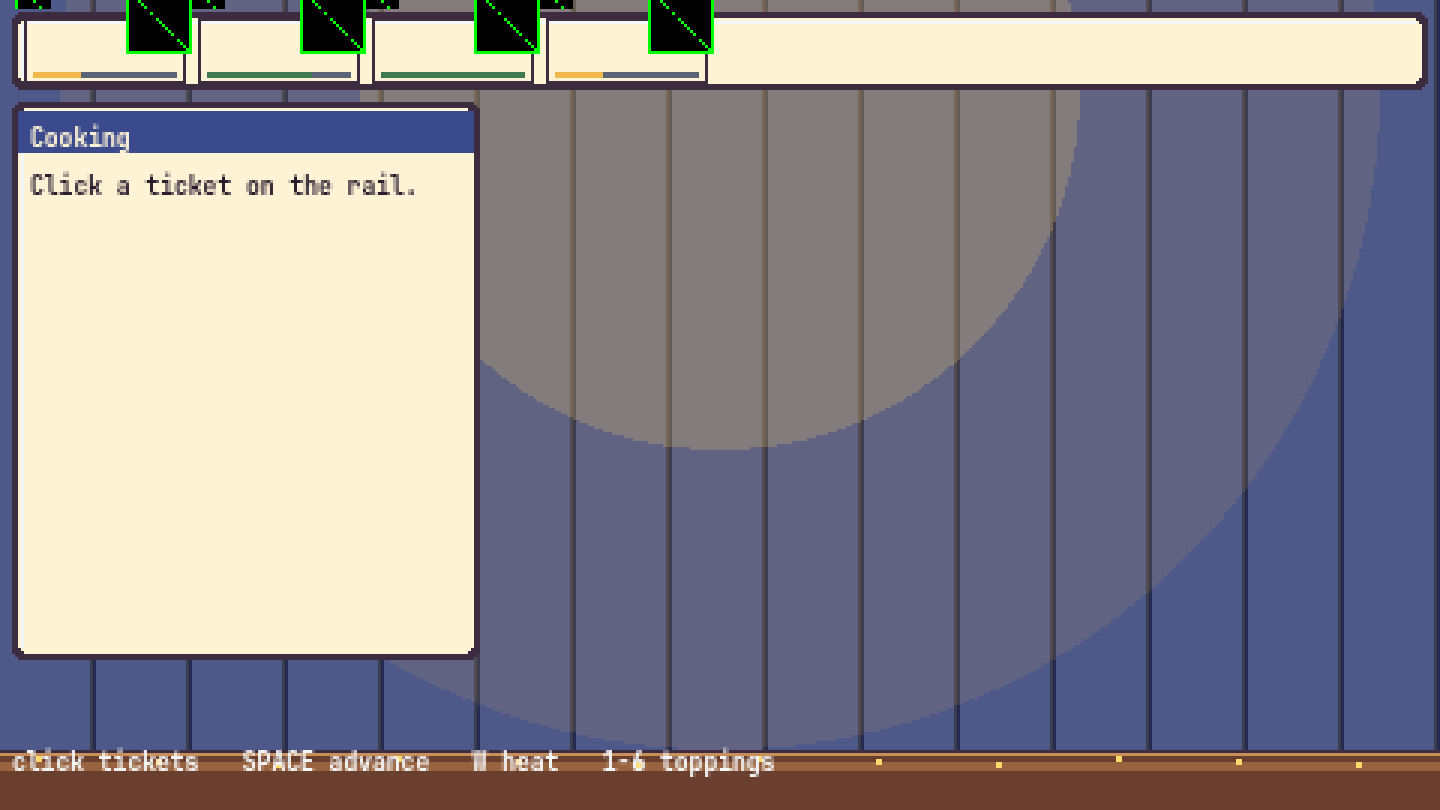
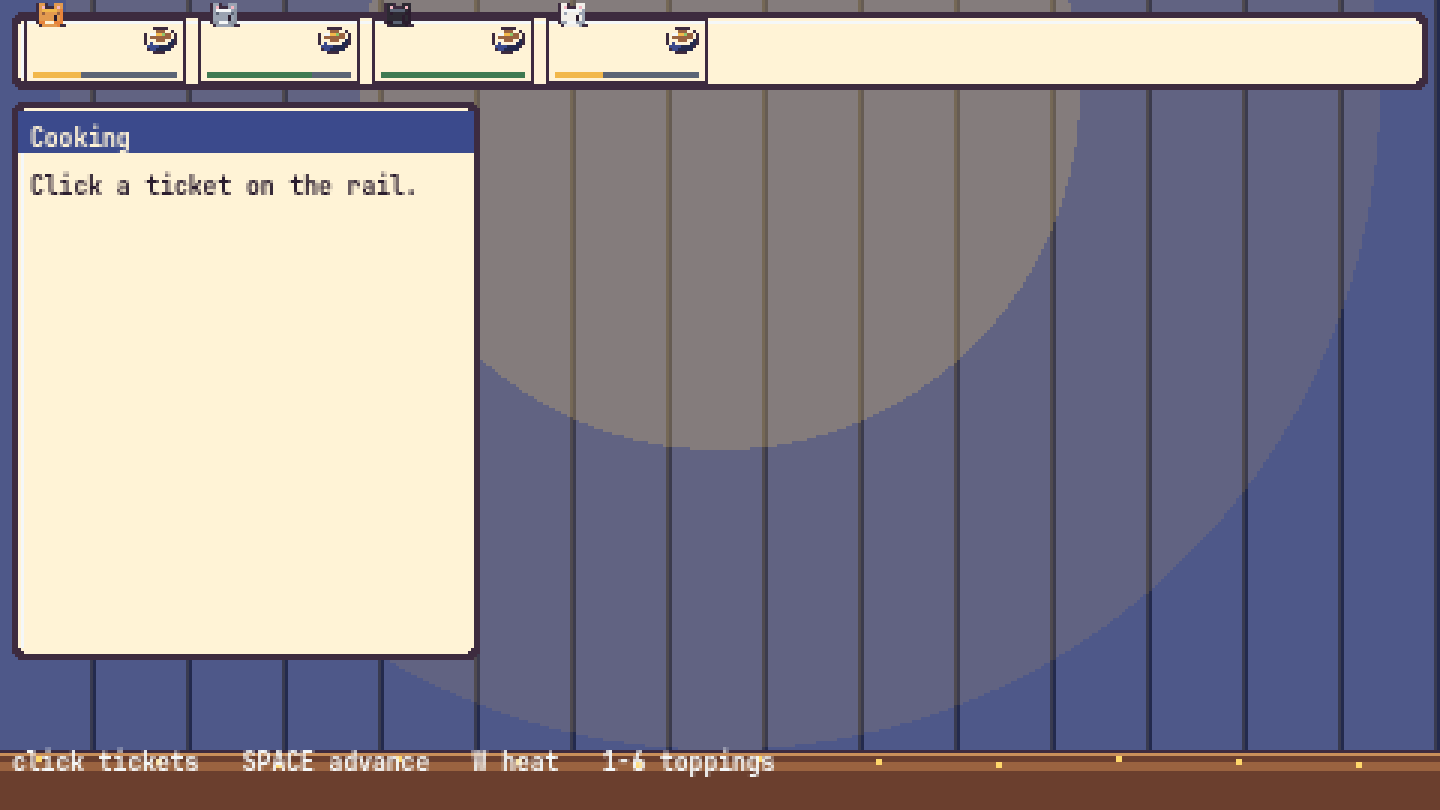
fix(service): load sprite atlas when booting directly into service scene
The ticket rail draws cat portraits and dish icons from the shared atlas,
but ServiceScene had no preload(), so ?scene=service booted with missing
textures (black placeholder boxes). Add the atlas preload and refresh the
kitchen/service review screenshots.

Changed region(s): [[0.0, 0.0, 0.2812, 0.0926], [0.3125, 0.0, 0.4062, 0.0926], [0.4375, 0.0, 0.5, 0.0926]]

diff --git a/apps/game/src/service/ServiceScene.ts b/apps/game/src/service/ServiceScene.ts
@@ -15,6 +15,7 @@ import { createButton, drawPanel, pixelText } from '../theme/hud';
 import { session } from '../meta/session';
 import { backdrop } from '../meta/ui';
 import { SHOP_SCENE_KEY } from '../shop/ShopScene';
+import { ATLAS_KEY } from '../shop/CatActor';
 import { emptyBrothHold, requiredToppings, sampleBroth, toMeasurements } from './measure';
 import { seededServiceTickets } from './tickets';
 import {
@@ -101,6 +102,12 @@ export class ServiceScene extends Phaser.Scene {
     this.streak = 0;
     this.coins = 0;
     this.railButtons = [];
+  }
+
+  preload(): void {
+    // The ticket rail draws cat portraits and dish icons from the shared atlas; when
+    // booting straight into `?scene=service` this scene is first and must load it itself.
+    this.load.atlas(ATLAS_KEY, 'assets/nyan-atlas.png', 'assets/nyan-atlas.json');
   }
 
   create(): void {
